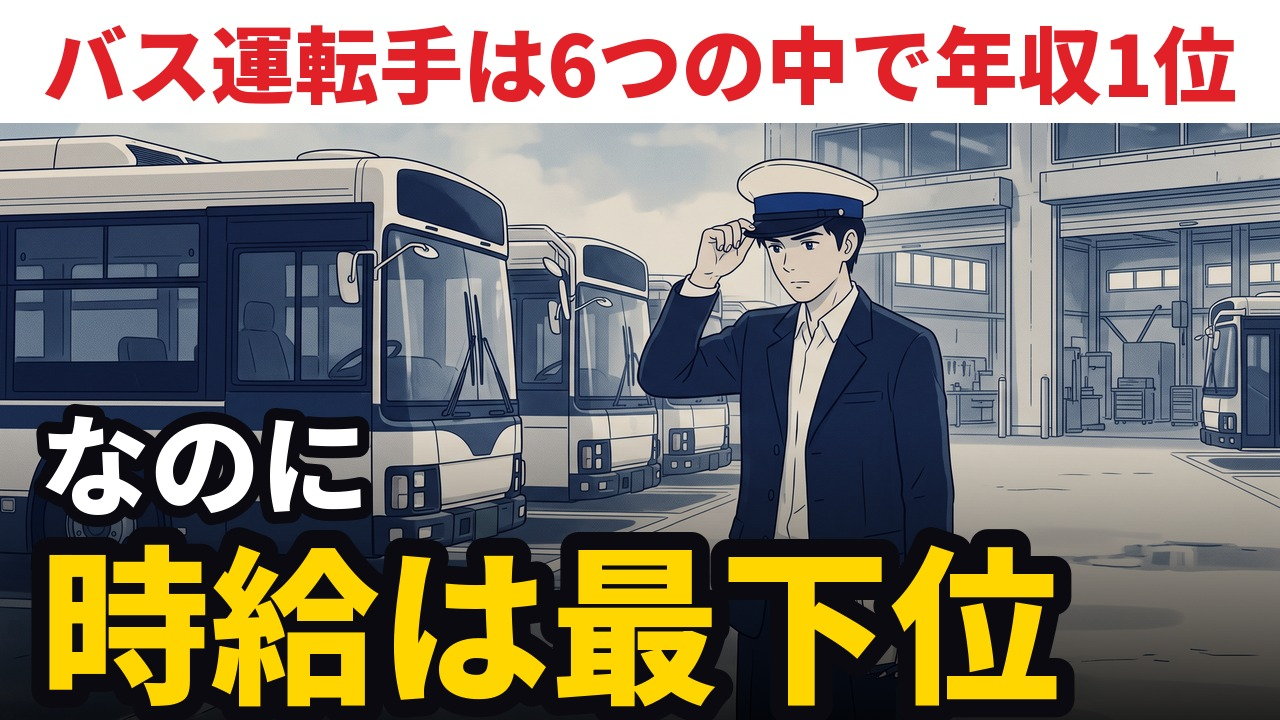
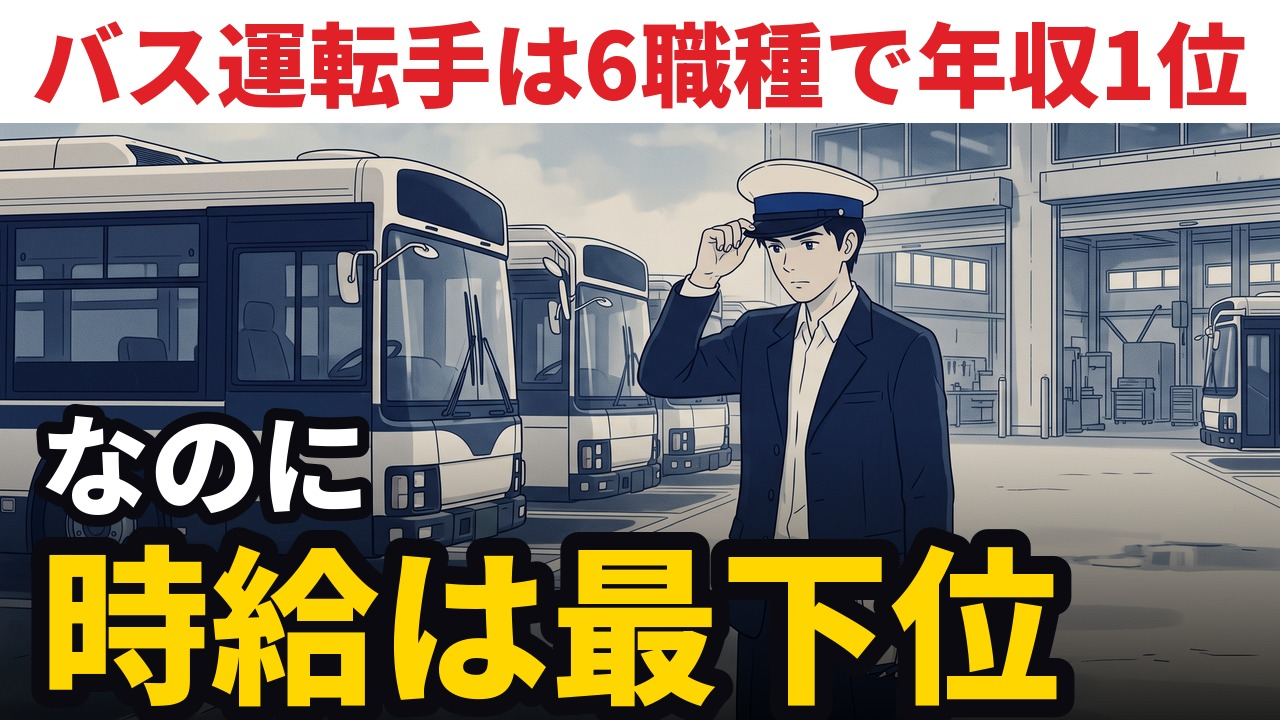
仕事ch 手順書 v4.4：順位の範囲は「6職種で」の形に（「6つの中で」は何の6つか分からない）・001_v2・005 のサムネとタイトル案を直す

Changed region(s): [[0.0312, 0.0306, 1.0, 0.1528]]

diff --git a/pipeline/check_job_script.py b/pipeline/check_job_script.py
@@ -56,8 +56,9 @@ G_RE = "|".join(GROUPS)
 # 期間の言い方・決まった言い回しの中の数字は、値として数えない
 SKIP = ["1日8時間で数えると", "1か月", "1年", "1時間", "1日", "1枚", "1人ずつ", "1冊ずつ"]
 # 順位の範囲（2026-10-28 本人「バス運転手は年収1位のやつと大型トラック運転手は年収1位、どちらも1位なの？」→ どちらも6つの中での1位だった）
-# 型A・B・C で「〇位」「最下位」と言う時は、何の中の順位か（「6つの中で」「144職種で」）を同じ所に書く。型D は採点の順位なので除く
-SCOPE = re.compile(r"(\d+|[一二三四五六七八九十]+)(つの仕事|つの職業|つ|職種|業種|職業|人|社)(の中|中)?で")
+# 「6つの中で」は何の6つかが分からないので数えない（2026-10-28 本人「意味わからなくない？メタになってない？」）
+# 型A・B・C で「〇位」「最下位」と言う時は、何の中の順位か（「6職種で」「144職種で」）を同じ所に書く。型D は採点の順位なので除く
+SCOPE = re.compile(r"(\d+|[一二三四五六七八九十]+)(つの仕事|つの職業|職種|業種|職業|人|社)(の中|中)?で")
 
 
 def rank_unscoped(text):
@@ -927,7 +928,7 @@ def main(work):
             ng.append(f"タイトルの離職率に業界名が無い：{t}")
         head = unicodedata.normalize("NFKC", t).split("|")[0]  # 見る人がまず読む｜の前に、何の中の順位かを書く
         if typ != "D" and rank_unscoped(head):
-            ng.append(f"タイトルの順位に、何の中の順位か（「6つの中で」など）が｜の前に無い：{t}")
+            ng.append(f"タイトルの順位に、何の中の順位か（「6職種で」など）が｜の前に無い：{t}")
         for tk in tokens(t):
             if tk not in allowed:
                 ng.append(f"タイトルに facts.json にない数字：{t} {tk}")
@@ -950,7 +951,7 @@ def main(work):
     if typ == "D" and "意外" in th_all and not facts.get("意外なを使える"):
         ng.append("サムネに「意外」があるのに、この回は使えない（facts.json の 意外なを使える）")
     if typ != "D" and rank_unscoped(top + th):
-        ng.append(f"サムネの順位に、何の中の順位か（「6つの中で」など）が見出しか大きい字に無い：{top}／{th}")
+        ng.append(f"サムネの順位に、何の中の順位か（「6職種で」など）が見出しか大きい字に無い：{top}／{th}")
     for x in (top, th, band):
         for tk in tokens(x):
             if tk not in allowed:

diff --git a/pipeline/write_script.py b/pipeline/write_script.py
@@ -69,7 +69,7 @@ def prompt(work, ch, fix):
   - thumb_text：いちばん大きい字。10字以内で、答えを伏せた問いか言い切り（例「上がらない本当の理由」「時給は何位？」）。thumb_lines で割り方を指定できる（場面の形は2つまで・判定の形は3つまで。数字の所か最後の部分が強調の色になる）。
   - thumb_band：判定の形の下の帯。28字以内。何を確かめたか＋答えが気になる一言（例「政府の統計で5人の容疑者を採点 → 意外な1位」）。
   - サムネの字に「AI」「PR」は入れない。数字は facts.json にある物だけ。「逆転」「意外」はタイトルと同じ決まり。
-- 型A・B・C のタイトル（｜の前）とサムネ（thumb_top・thumb_text）で「1位」「最下位」「〇位」と言う時は、何の中の順位かを同じ所に書く（例「バス運転手は6つの中で年収1位」「144職種で一番長く働く」）。
+- 型A・B・C のタイトル（｜の前）とサムネ（thumb_top・thumb_text）で「1位」「最下位」「〇位」と言う時は、何の中の順位かを同じ所に書く（例「バス運転手は6職種で年収1位」「144職種で一番長く働く」）。
   比べた仕事が数個だけなのに「年収1位」とだけ書くと、全部の仕事の中の1位に読める（2026-10-28 本人「バス運転手と大型トラック運転手、どちらも年収1位なの？」）。
 - 図のカットは chart に、facts.json の値を指す形で書く（見本の chart の kind と項目名を使う）。
 - 競合メモがある時は「うちの次の回で試すこと」から、この回の型に合う物を1つ以上、手順書の決まりの中で取り入れる（タイトル3案・サムネの文字・概要欄・台本の構成のどれか）。

diff --git a/pipeline/make_thumb_job.py b/pipeline/make_thumb_job.py
@@ -178,7 +178,7 @@ def rules(s, f):
         ng.append("サムネに「意外」があるのに、この回は使えない（1位が予想どおりか同点。facts.json の 意外なを使える）")
     from check_job_script import tokens, allowed_from, rank_unscoped
     if s.get("type") != "D" and rank_unscoped(top + t):  # 何の中の順位か（2026-10-28 本人「どちらも1位なの？」）
-        ng.append(f"サムネの順位に、何の中の順位か（「6つの中で」など）が見出しか大きい字に無い：{top}／{t}")
+        ng.append(f"サムネの順位に、何の中の順位か（「6職種で」など）が見出しか大きい字に無い：{top}／{t}")
     ok = allowed_from(f)
     for x in (top, t, band):
         ng += [f"サムネに facts.json にない数字：{x} {k}" for k in tokens(x) if k not in ok]

diff --git a/pipeline/make_teaser_job.py b/pipeline/make_teaser_job.py
@@ -202,7 +202,7 @@ def title(sc):
     if re.search(r"AI|PR", base.upper()):
         sys.exit(f"【止まりました】予告のタイトルに「AI」か「PR」：{base}")
     if sc.get("type") != "D" and rank_unscoped(base):
-        sys.exit(f"【止まりました】予告のタイトルの順位に、何の中の順位か（「6つの中で」など）が無い：{base}")
+        sys.exit(f"【止まりました】予告のタイトルの順位に、何の中の順位か（「6職種で」など）が無い：{base}")
     return base + " #年収 #仕事"
 
 
